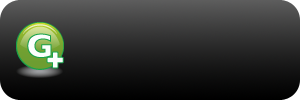
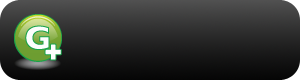
Tidied up resources a little.

diff --git a/G+ Notifier/NotificationForm.Designer.cs b/G+ Notifier/NotificationForm.Designer.cs
@@ -29,7 +29,6 @@
 		private void InitializeComponent()
 		{
 			this.components = new System.ComponentModel.Container();
-			System.ComponentModel.ComponentResourceManager resources = new System.ComponentModel.ComponentResourceManager(typeof(NotificationForm));
 			this.lblTitle = new System.Windows.Forms.Label();
 			this.fadeInTimer = new System.Windows.Forms.Timer(this.components);
 			this.fadeOutTimer = new System.Windows.Forms.Timer(this.components);
@@ -77,7 +76,7 @@
 			// 
 			this.AutoScaleDimensions = new System.Drawing.SizeF(6F, 13F);
 			this.AutoScaleMode = System.Windows.Forms.AutoScaleMode.Font;
-			this.BackgroundImage = ((System.Drawing.Image)(resources.GetObject("$this.BackgroundImage")));
+			this.BackgroundImage = global::DanTup.GPlusNotifier.Properties.Resources.Toast;
 			this.BackgroundImageLayout = System.Windows.Forms.ImageLayout.None;
 			this.ClientSize = new System.Drawing.Size(300, 80);
 			this.ControlBox = false;
